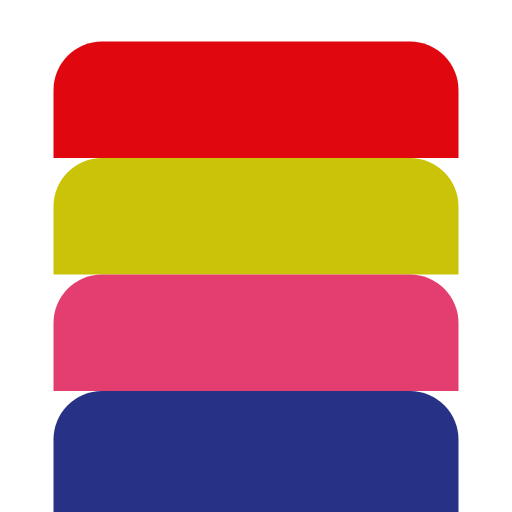
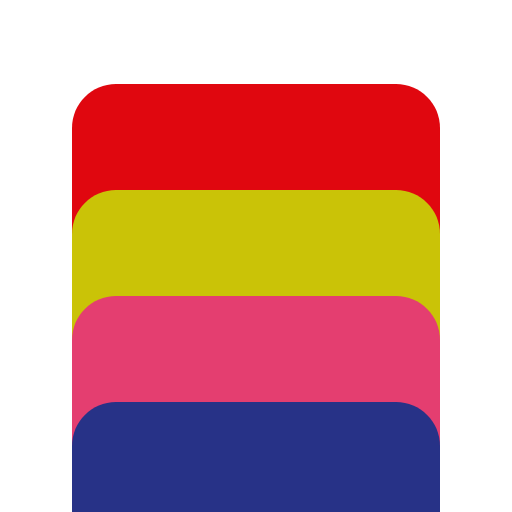
Use the exported paths, not my copy of them
The icon that went out was redrawn rather than used. I rebuilt each card
from the 212 of it you can see, which is wrong: in the export each card
is 300 deep and the next one covers all but 212, and that buried 88 is
what fills the notch at every card's shoulder with the colour of the card
above. Truncated to 212, those notches fell through to the ground, so
each card got a white nick at both shoulders and the deck stopped being a
deck. On a home screen it read as four loose stripes.

Nothing was going to catch that except looking. Every measurement I took
agreed with the export, because I was measuring the visible bands, which
were right; the overlap is invisible until it is missing.

So the paths are now the export's, byte for byte, in their own
coordinates, in all three files. The only thing added is the white
rectangle behind them, because the export is transparent and iOS
composites transparency to black. That also drops the widening to margin
107, since that was a rescale of a drawing that is fine as drawn.

The maskable is the same paths moved and scaled as a group rather than
edited, at 0.71, centred. It no longer runs off the bottom, and cannot:
sitting the deck low enough for the bottom card to leave the frame pushes
the lowest shingle line outside Android's safe circle at every scale
there is, so the choice is between the bleed and the pink to navy line
surviving a circular mask. The line wins; it is one of the three that
[…]

Changed region(s): [[0.0938, 0.0625, 0.9062, 1.0]]

diff --git a/icons/README.md b/icons/README.md
@@ -1,13 +1,19 @@
 # Icon masters
 
-`square.svg` is the app icon. `maskable.svg` is the Android variant, which is a
-separate drawing rather than a crop, for the reasons written into the file.
-Both are 1024 square with an opaque white ground, and both carry their own
-notes about why the numbers are what they are.
+`square.svg` is the app icon: the export's four paths verbatim, in their own
+1024 coordinates, with one white rectangle behind them. `maskable.svg` is the
+same four paths moved and scaled as a group for Android. Both files carry their
+own notes on why they are the way they are.
 
 `public/favicon.svg` is `square.svg` with the ground behind a
 `prefers-color-scheme` query, since a vector favicon is the one icon here a
 browser re-renders and can therefore follow the theme.
+
+**Do not rebuild the cards from their visible bands.** Each card is 300 deep
+and the next covers all but 212 of it; that overlap is what fills the notch at
+each card's shoulder with the colour of the card above. Redraw them as their
+visible 212 and the notches show the ground, which at icon sizes turns the deck
+into four loose stripes. Edit the transform, never the path data.
 
 ## Rendering the PNGs
 
@@ -32,6 +38,6 @@ where `page.html` is the SVG inlined under
 | `public/icon-maskable-512.png` | `maskable.svg` | 512 |
 
 Worth re-checking after any change: every PNG is exactly its named size, no
-pixel is less than fully opaque, and in the maskable one nothing red, yellow or
-pink reaches further than 40% of the width from the centre. Navy is expected
-out there — that is the card leaving the frame.
+pixel is less than fully opaque, nothing but ground falls outside 40% of the
+width from the centre of the maskable one, and the notch above each card is the
+colour of the card above rather than white.
